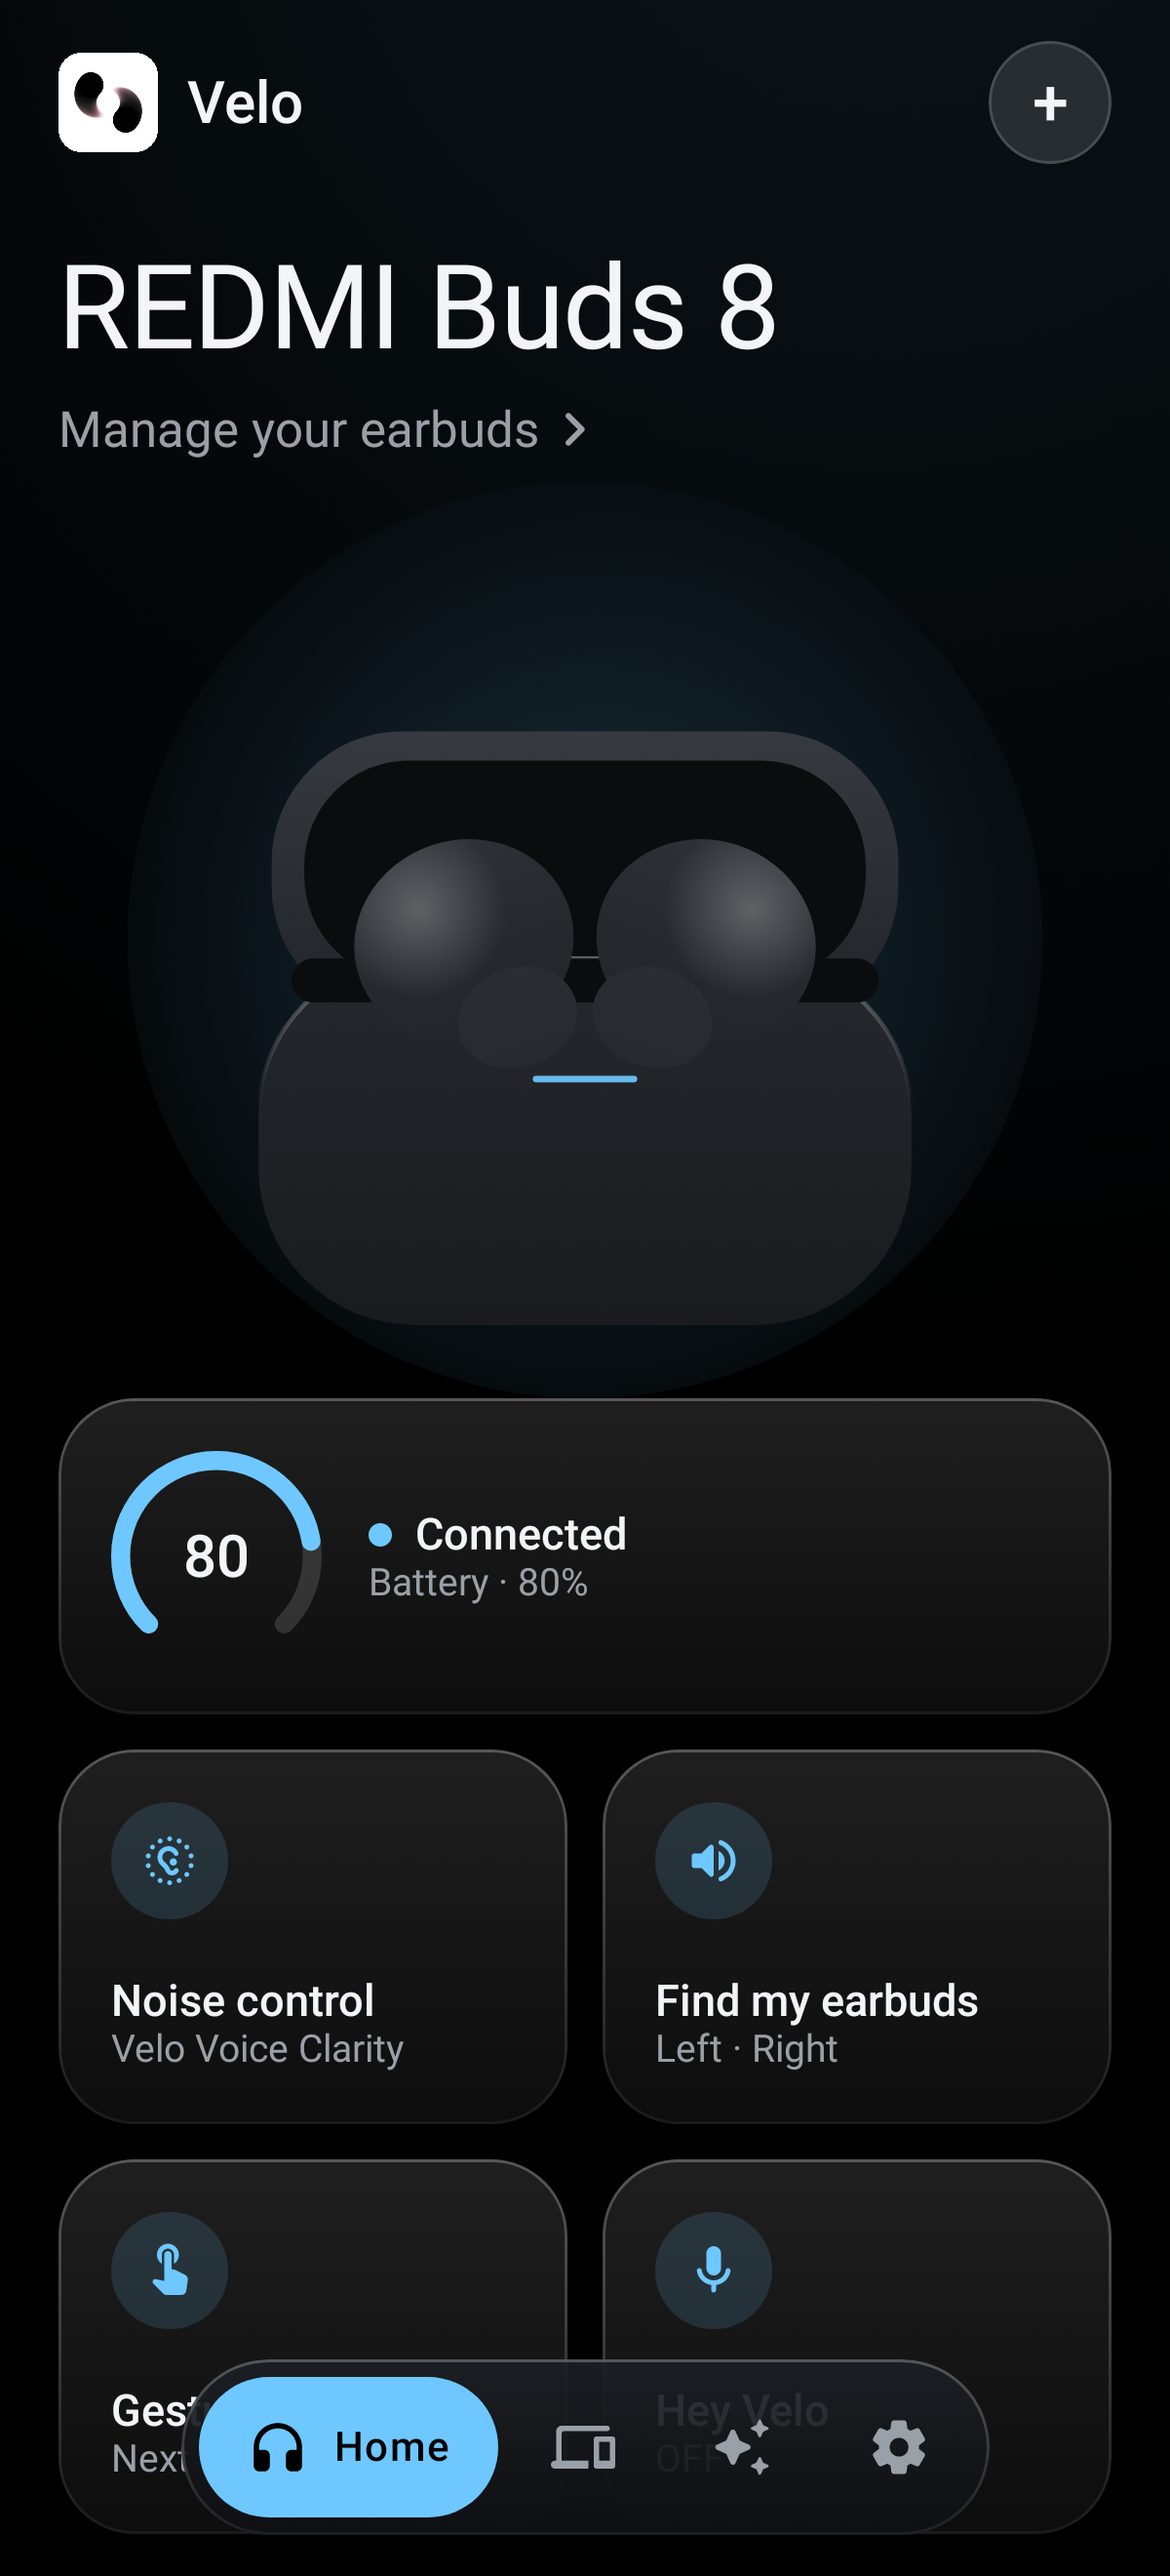
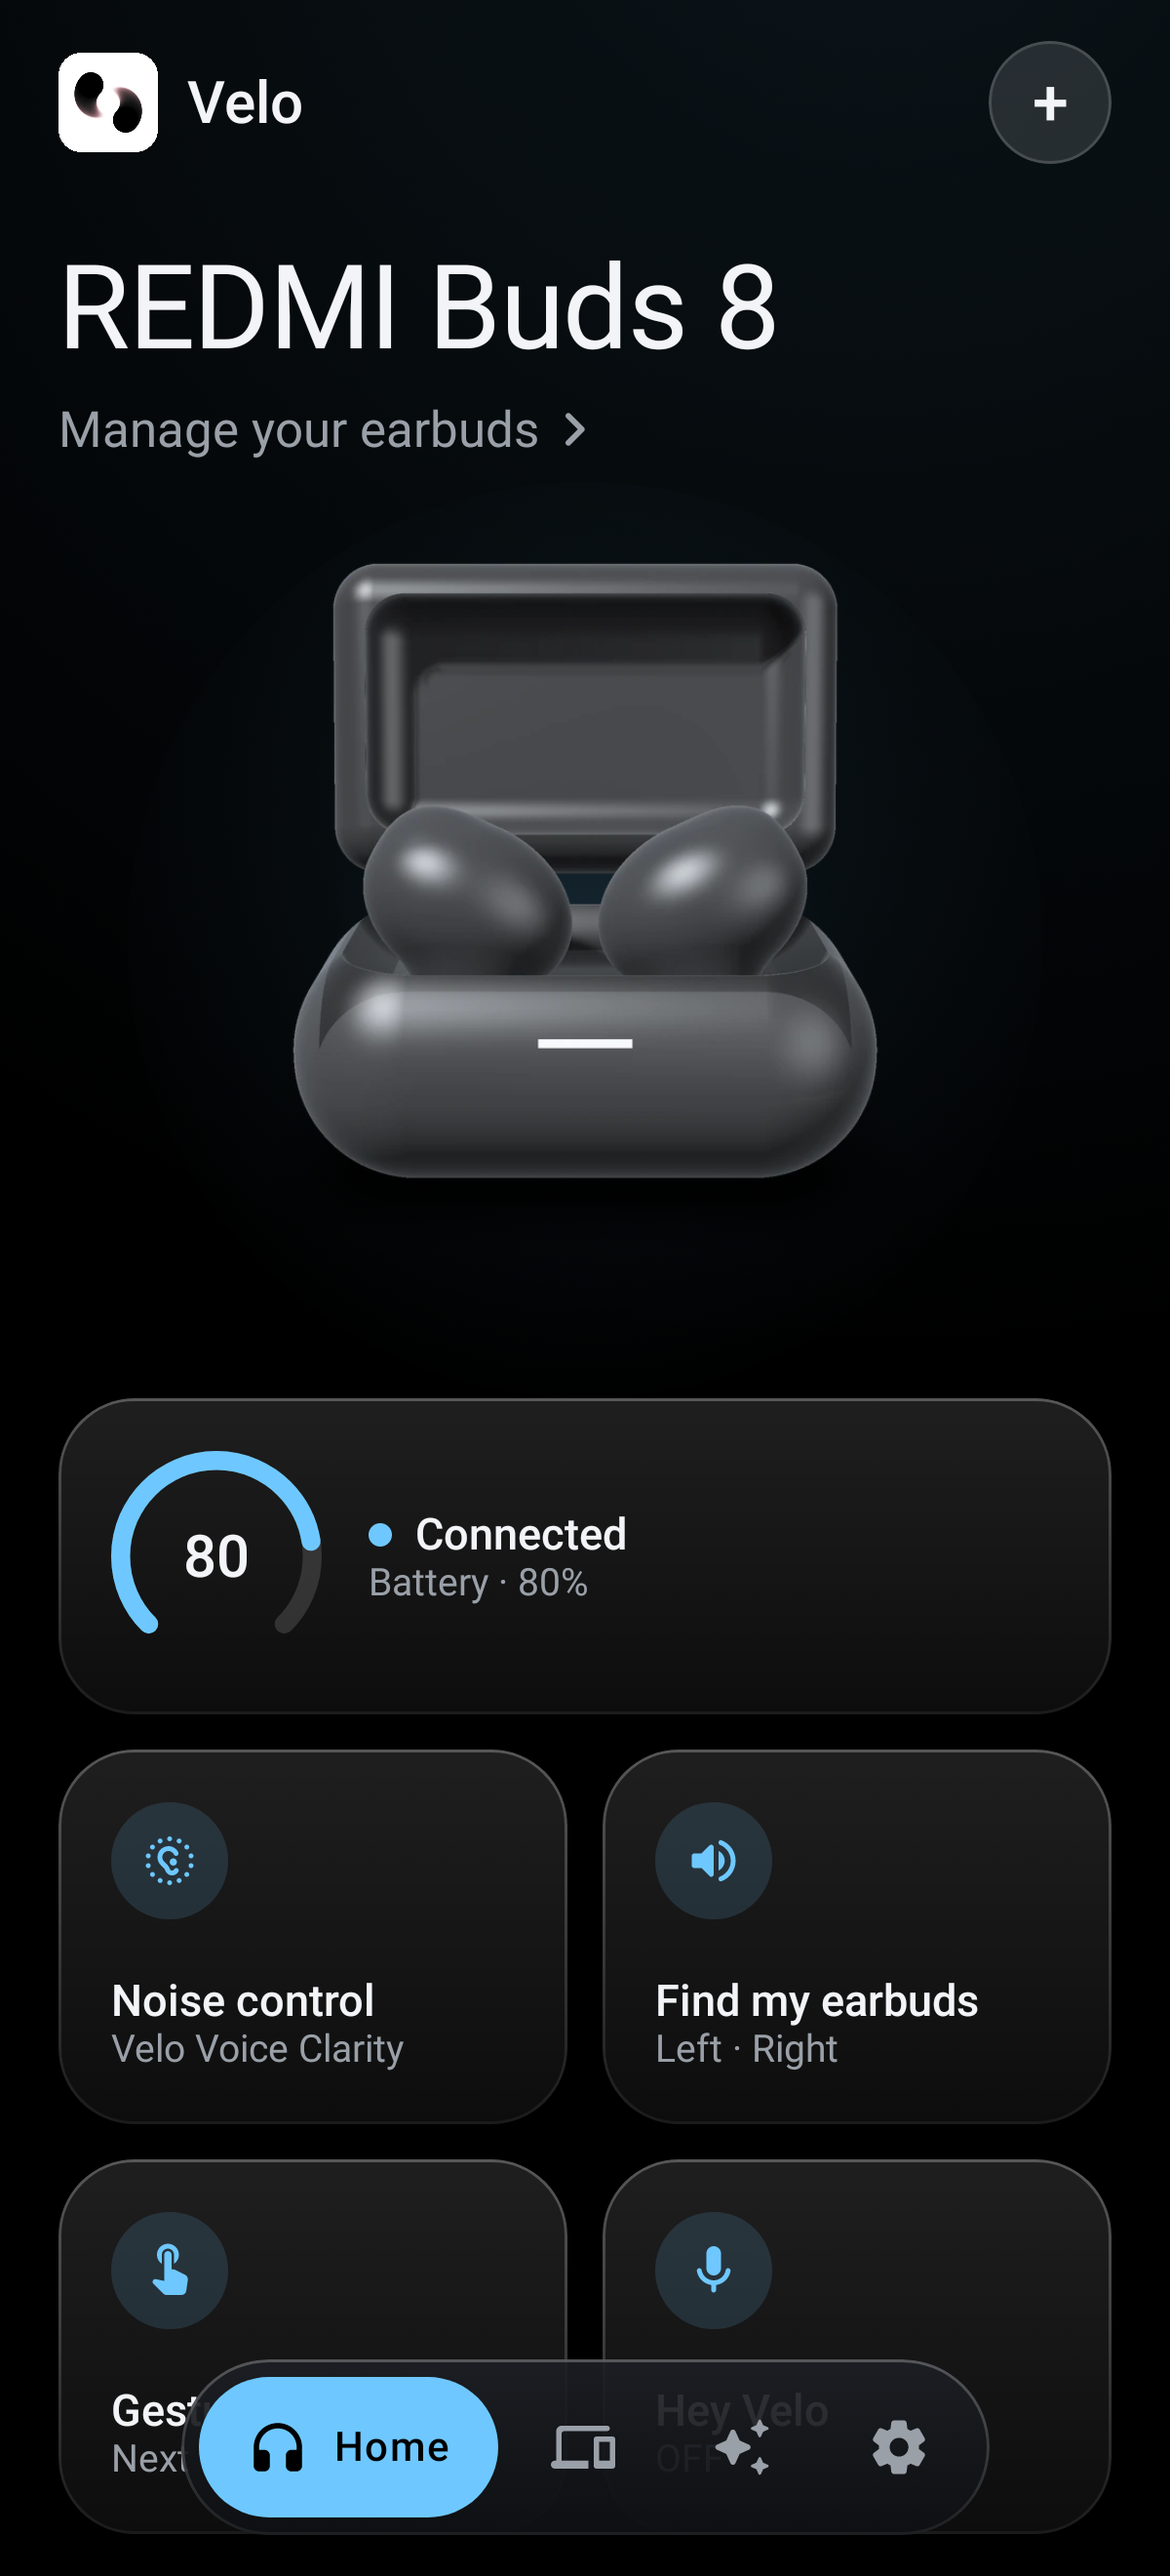
Velo: replace flat earbuds drawing with smooth 3D renders
Pre-rendered matte 3D images for bean buds, stem buds and over-ear headphones
(generated by velo/tools/render_buds.py), shown over a soft accent glow.

Claude-Session: https://claude.ai/code/session_01CEukdWCG9trqn3DkhHwM5x

Changed region(s): [[0.2158, 0.2174, 0.8017, 0.528]]

diff --git a/velo/app/src/main/java/app/velo/ui/BudsArt.kt b/velo/app/src/main/java/app/velo/ui/BudsArt.kt
@@ -1,116 +1,42 @@
 package app.velo.ui
 
 import androidx.compose.foundation.Canvas
+import androidx.compose.foundation.Image
+import androidx.compose.foundation.layout.Box
+import androidx.compose.foundation.layout.fillMaxSize
+import androidx.compose.runtime.Composable
+import androidx.compose.ui.Alignment
 import androidx.compose.ui.Modifier
-import androidx.compose.ui.geometry.CornerRadius
 import androidx.compose.ui.geometry.Offset
-import androidx.compose.ui.geometry.Size
 import androidx.compose.ui.graphics.Brush
 import androidx.compose.ui.graphics.Color
-import androidx.compose.ui.graphics.Path
-import androidx.compose.ui.graphics.drawscope.DrawScope
-import androidx.compose.ui.graphics.drawscope.Stroke
-import androidx.compose.ui.graphics.drawscope.rotate
-import androidx.compose.runtime.Composable
+import androidx.compose.ui.layout.ContentScale
+import androidx.compose.ui.res.painterResource
+import app.velo.R
 import app.velo.bt.BudsStyle
 
 /**
- * Product-style illustration of the connected model (bean buds in an open case, stem buds, or
- * over-ear headphones), drawn in vector so it's sharp on every screen and costs no image memory.
+ * 3D product render of the connected model's style (bean buds in an open case, stem buds, or
+ * over-ear headphones). The renders are pre-made images (see tools/render_buds.py), so showing
+ * them costs no 3D work on the phone.
  */
 @Composable
 fun BudsArt(style: BudsStyle, accent: Color, modifier: Modifier = Modifier, glowing: Boolean = true) {
-    Canvas(modifier) {
-        if (glowing) drawCircle(
-            Brush.radialGradient(listOf(accent.copy(alpha = 0.22f), Color.Transparent),
-                center = Offset(size.width / 2, size.height * 0.55f), radius = size.minDimension * 0.6f)
-        )
-        when (style) {
-            BudsStyle.BEANS -> beans(accent)
-            BudsStyle.STEMS -> stems(accent)
-            BudsStyle.OVER_EAR -> overEar(accent)
+    val res = when (style) {
+        BudsStyle.BEANS -> R.drawable.render_beans
+        BudsStyle.STEMS -> R.drawable.render_stems
+        BudsStyle.OVER_EAR -> R.drawable.render_over
+    }
+    Box(modifier, contentAlignment = Alignment.Center) {
+        if (glowing) Canvas(Modifier.fillMaxSize()) {
+            // soft accent light behind the product, like a studio backdrop
+            drawCircle(
+                Brush.radialGradient(
+                    listOf(accent.copy(alpha = 0.16f), accent.copy(alpha = 0.04f), Color.Transparent),
+                    center = Offset(size.width / 2, size.height * 0.48f), radius = size.minDimension * 0.55f
+                )
+            )
         }
+        Image(painterResource(res), null, Modifier.fillMaxSize(), contentScale = ContentScale.Fit)
     }
-}
-
-private val shell = Brush.verticalGradient(listOf(Color(0xFF4A4E55), Color(0xFF26292E), Color(0xFF16181B)))
-private val inner = Color(0xFF0B0C0E)
-
-private fun DrawScope.case(top: Float, accent: Color, lidOpen: Boolean = true) {
-    val w = size.width * 0.62f
-    val h = size.height * 0.40f
-    val l = (size.width - w) / 2
-    // lid (open, behind)
-    if (lidOpen) {
-        val lidTop = top - h * 0.62f
-        drawRoundRect(shell, Offset(l + w * 0.02f, lidTop), Size(w * 0.96f, h * 0.78f), CornerRadius(w * 0.2f))
-        drawRoundRect(inner, Offset(l + w * 0.07f, lidTop + h * 0.08f), Size(w * 0.86f, h * 0.6f), CornerRadius(w * 0.16f))
-    }
-    // body
-    drawRoundRect(shell, Offset(l, top), Size(w, h), CornerRadius(w * 0.24f, w * 0.24f))
-    // rim light
-    drawRoundRect(
-        Brush.verticalGradient(listOf(Color(0x55FFFFFF), Color.Transparent), startY = top, endY = top + h * 0.4f),
-        Offset(l, top), Size(w, h), CornerRadius(w * 0.24f), style = Stroke(width = size.width * 0.004f)
-    )
-    // cradle opening
-    drawRoundRect(inner, Offset(l + w * 0.05f, top), Size(w * 0.9f, h * 0.12f), CornerRadius(w * 0.05f))
-    // status LED
-    drawRoundRect(accent.copy(alpha = 0.9f), Offset(size.width / 2 - w * 0.08f, top + h * 0.32f),
-        Size(w * 0.16f, h * 0.018f), CornerRadius(4f))
-}
-
-private fun DrawScope.bean(cx: Float, cy: Float, r: Float, mirror: Boolean) {
-    val s = if (mirror) -1f else 1f
-    rotate(if (mirror) 18f else -18f, Offset(cx, cy)) {
-        drawOval(shell, Offset(cx - r, cy - r * 0.92f), Size(r * 2, r * 1.84f))
-        // ear tip
-        drawOval(Brush.verticalGradient(listOf(Color(0xFF3A3D43), Color(0xFF1D1F23))),
-            Offset(cx + s * r * 0.25f - r * 0.55f, cy + r * 0.35f), Size(r * 1.1f, r * 0.9f))
-        // highlight
-        drawOval(Brush.radialGradient(listOf(Color(0x40FFFFFF), Color.Transparent),
-            center = Offset(cx - s * r * 0.3f, cy - r * 0.4f), radius = r * 0.8f),
-            Offset(cx - r, cy - r * 0.92f), Size(r * 2, r * 1.84f))
-    }
-}
-
-private fun DrawScope.beans(accent: Color) {
-    val top = size.height * 0.52f
-    case(top, accent)
-    val r = size.width * 0.105f
-    bean(size.width * 0.385f, top - r * 0.15f, r, false)
-    bean(size.width * 0.615f, top - r * 0.15f, r, true)
-}
-
-private fun DrawScope.stems(accent: Color) {
-    val top = size.height * 0.55f
-    case(top, accent)
-    val r = size.width * 0.075f
-    for ((cx, m) in listOf(size.width * 0.42f to false, size.width * 0.58f to true)) {
-        val cy = top - r * 0.6f
-        drawOval(shell, Offset(cx - r, cy - r), Size(r * 2, r * 1.8f))
-        drawRoundRect(shell, Offset(cx - r * 0.32f + (if (m) r * 0.15f else -r * 0.15f), cy + r * 0.4f),
-            Size(r * 0.64f, r * 2.6f), CornerRadius(r * 0.32f))
-        drawOval(Brush.radialGradient(listOf(Color(0x40FFFFFF), Color.Transparent), Offset(cx, cy - r * 0.4f), r),
-            Offset(cx - r, cy - r), Size(r * 2, r * 1.8f))
-    }
-}
-
-private fun DrawScope.overEar(accent: Color) {
-    val cx = size.width / 2
-    val w = size.width * 0.56f
-    val bandTop = size.height * 0.16f
-    val band = Path().apply {
-        moveTo(cx - w / 2, size.height * 0.58f)
-        cubicTo(cx - w / 2, bandTop - size.height * 0.05f, cx + w / 2, bandTop - size.height * 0.05f, cx + w / 2, size.height * 0.58f)
-    }
-    drawPath(band, Color(0xFF2A2D32), style = Stroke(width = size.width * 0.05f))
-    drawPath(band, Color(0x33FFFFFF), style = Stroke(width = size.width * 0.006f))
-    for (x in listOf(cx - w / 2, cx + w / 2)) {
-        val cw = size.width * 0.17f
-        val ch = size.height * 0.30f
-        drawRoundRect(shell, Offset(x - cw / 2, size.height * 0.5f), Size(cw, ch), CornerRadius(cw * 0.45f))
-        drawRoundRect(Color(0xFF151619), Offset(x - cw * 0.32f, size.height * 0.53f), Size(cw * 0.64f, ch * 0.88f), CornerRadius(cw * 0.3f))
-    }
-    drawCircle(accent.copy(alpha = 0.9f), size.width * 0.008f, Offset(cx + w / 2, size.height * 0.62f))
 }

diff --git a/velo/tools/render_buds.py b/velo/tools/render_buds.py
@@ -1,0 +1,150 @@
+import numpy as np, sys
+from PIL import Image
+f32=np.float32
+def length(v): return np.sqrt((v*v).sum(-1))
+def norm(v): return v/np.maximum(length(v),1e-6)[...,None]
+def rbox(p,b,r):
+    q=np.abs(p)-np.array(b,f32)+r
+    return length(np.maximum(q,0))+np.minimum(q.max(-1),0)-r
+def ell(p,r):
+    r=np.array(r,f32); k0=length(p/r); k1=length(p/(r*r)); return k0*(k0-1)/np.maximum(k1,1e-6)
+def sph(p,r): return length(p)-r
+def smin(a,b,k):
+    h=np.clip(0.5+0.5*(b-a)/k,0,1); return b*(1-h)+a*h-k*h*(1-h)
+def rotx(p,a):
+    c,s=np.cos(a),np.sin(a); x,y,z=p[...,0],p[...,1],p[...,2]
+    return np.stack([x,c*y-s*z,s*y+c*z],-1)
+def roty(p,a):
+    c,s=np.cos(a),np.sin(a); x,y,z=p[...,0],p[...,1],p[...,2]
+    return np.stack([c*x+s*z,y,-s*x+c*z],-1)
+def rotz(p,a):
+    c,s=np.cos(a),np.sin(a); x,y,z=p[...,0],p[...,1],p[...,2]
+    return np.stack([c*x-s*y,s*x+c*y,z],-1)
+def sub(p,o): return p-np.array(o,f32)
+
+def case(p):
+    body=rbox(sub(p,(0,-0.32,0)),(1.08,0.47,0.66),0.46)
+    cav=rbox(sub(p,(0,0.30,0.0)),(0.92,0.42,0.50),0.32)
+    body=np.maximum(body,-cav)
+    # lid hinged at back-top, opened ~105deg
+    q=sub(p,(0,0.15,-0.66)); q=rotx(q,np.radians(104)); q=q-np.array((0,0.13,0.66),f32)
+    lid=rbox(q,(1.08,0.20,0.66),0.20)
+    lidcav=rbox(q-np.array((0,-0.16,0),f32),(0.92,0.18,0.50),0.17)
+    lid=np.maximum(lid,-lidcav)
+    return body,lid
+
+def bean(p,side):
+    q=sub(p,(side*0.43,0.22,0.12)); q=rotz(q,side*np.radians(-28)); q=rotx(q,np.radians(-18))
+    b=ell(q,(0.40,0.31,0.30))
+    tip=ell(q-np.array((side*-0.14,-0.20,0.16),f32),(0.19,0.17,0.17))
+    nub=ell(q-np.array((side*0.20,0.10,-0.10),f32),(0.16,0.13,0.14))
+    return smin(smin(b,tip,0.12),nub,0.10)
+
+def stem(p,side):
+    q=sub(p,(side*0.40,0.28,0.18)); q=rotz(q,side*np.radians(-12))
+    head=ell(q,(0.27,0.24,0.25))
+    s=q-np.array((side*0.04,-0.36,0.0),f32)
+    s2=s.copy(); s2[...,1]=s[...,1]-np.clip(s[...,1],-0.32,0.32)
+    st=length(s2)-0.085
+    tip=ell(q-np.array((side*-0.17,-0.02,0.12),f32),(0.12,0.10,0.10))
+    return smin(smin(head,st,0.10),tip,0.06)
+
+def headphones(p):
+    # headband: torus segment in xy plane
+    p=roty(p,np.radians(-32))
+    q=sub(p,(0,0.05,0))
+    R=1.05; r=0.13
+    xy=np.sqrt(q[...,0]**2+q[...,1]**2)
+    band=np.sqrt((xy-R)**2+q[...,2]**2)-r
+    band=np.where(q[...,1]>-0.25,band,10)
+    cups=10
+    for sd in (-1,1):
+        c=sub(p,(sd*1.0,-0.62,0)); c=rotz(c,sd*np.radians(8))
+        cup=rbox(c,(0.15,0.50,0.40),0.15)
+        cup=smin(cup,ell(c-np.array((-sd*0.12,0,0),f32),(0.16,0.50,0.40)),0.06)
+        cups=np.minimum(cups,cup)
+        yoke=rbox(sub(p,(sd*1.06,-0.22,0)),(0.05,0.18,0.06),0.04)
+        cups=np.minimum(cups,yoke)
+    return band,cups
+
+def scene(p,kind):
+    if kind=="over":
+        a,b=headphones(p); d=np.minimum(a,b); m=np.where(a<b,1,0)
+        return d,m
+    body,lid=case(p)
+    if kind=="beans": l,r=bean(p,1),bean(p,-1)
+    else: l,r=stem(p,1),stem(p,-1)
+    buds=np.minimum(l,r)
+    d=np.minimum(np.minimum(body,lid),buds)
+    m=np.where(buds<=d+1e-6,1,np.where(lid<=d+1e-6,2,0))
+    return d,m
+
+def render(kind,W,H,out):
+    ss=2; w,h=W*ss,H*ss
+    if kind=="over": cam=np.array((0,0.5,5.6),f32); tgt=np.array((0,-0.25,0),f32); fov=0.42
+    else: cam=np.array((0,1.55,5.0),f32); tgt=np.array((0,0.05,0),f32); fov=0.33
+    fw=norm(tgt-cam); rt=norm(np.cross(fw,np.array((0,1,0),f32))); up=np.cross(rt,fw)
+    ys,xs=np.mgrid[0:h,0:w].astype(f32)
+    u=(xs-w/2)/h*2*fov; v=-(ys-h/2)/h*2*fov
+    rd=norm(fw+u[...,None]*rt+v[...,None]*up).reshape(-1,3)
+    ro=np.broadcast_to(cam,rd.shape)
+    n=rd.shape[0]; t=np.zeros(n,f32); hit=np.zeros(n,bool); act=np.ones(n,bool)
+    for i in range(140):
+        idx=np.nonzero(act)[0]
+        if idx.size==0: break
+        p=ro[idx]+rd[idx]*t[idx,None]
+        d,_=scene(p,kind)
+        t[idx]+=d*0.9
+        h_=d<0.0008; far=t[idx]>12
+        hit[idx[h_]]=True; act[idx[h_|far]]=False
+    col=np.zeros((n,3),f32); alpha=np.zeros(n,f32)
+    idx=np.nonzero(hit)[0]
+    p=ro[idx]+rd[idx]*t[idx,None]
+    e=0.0015
+    def D(q): return scene(q,kind)[0]
+    nrm=norm(np.stack([D(p+np.array((e,0,0),f32))-D(p-np.array((e,0,0),f32)),
+                       D(p+np.array((0,e,0),f32))-D(p-np.array((0,e,0),f32)),
+                       D(p+np.array((0,0,e),f32))-D(p-np.array((0,0,e),f32))],-1))
+    _,mat=scene(p,kind)
+    # AO
+    ao=np.ones(len(idx),f32)
+    for k in range(1,6):
+        hh=0.04*k; ao-= (hh-D(p+nrm*hh))*(0.9/k)
+    ao=np.clip(ao,0.15,1)
+    # soft shadow toward key light
+    L=norm(np.array((-0.55,1.0,0.55),f32))
+    sh=np.ones(len(idx),f32); tt=np.full(len(idx),0.02,f32)
+    for k in range(48):
+        dd=D(p+nrm*0.004+L*tt[:,None]); sh=np.minimum(sh,10*dd/tt); tt+=np.clip(dd,0.01,0.2)
+    sh=np.clip(sh,0,1); sh=sh*sh*(3-2*sh)
+    V=-rd[idx]
+    base=np.array([(0.034,0.036,0.040),(0.030,0.032,0.036),(0.026,0.027,0.030)],f32)[mat]
+    inside=(mat!=1)&(np.abs(p[:,0])<0.93)&(np.abs(p[:,2])<0.52)&(p[:,1]>-0.45)&(p[:,1]<0.2)&(nrm[:,1]<0.9)
+    base=np.where(inside[:,None],base*0.35,base)
+    # darker interior of cavities (surfaces facing up-inside get occluded by AO already)
+    diff=np.clip((nrm*L).sum(-1),0,1)*sh
+    fill=np.clip((nrm*norm(np.array((0.8,0.3,0.6),f32))).sum(-1),0,1)*0.35
+    sky=(0.5+0.5*nrm[:,1])*0.25
+    Hh=norm(L+V); spec=np.clip((nrm*Hh).sum(-1),0,1)**48*sh*0.55
+    Hf=norm(norm(np.array((0.8,0.3,0.6),f32))+V); spec+=np.clip((nrm*Hf).sum(-1),0,1)**30*0.12
+    fres=(1-np.clip((nrm*V).sum(-1),0,1))**4
+    rim=fres*0.35*(0.4+0.6*np.clip(nrm[:,1]*0.5+0.5,0,1))
+    c=base*(diff[:,None]*2.6+fill[:,None]+sky[:,None])*ao[:,None]+spec[:,None]*np.array((0.9,0.95,1),f32)+rim[:,None]*np.array((0.55,0.62,0.7),f32)*ao[:,None]
+    if kind!="over":
+        led=(mat==0)&(np.abs(p[:,0])<0.16)&(np.abs(p[:,1]+0.13)<0.014)&(nrm[:,2]>0.6)
+        c=np.where(led[:,None],np.array((0.92,0.95,1.0),f32),c)
+    col[idx]=c; alpha[idx]=1
+    # contact shadow on invisible floor
+    floor_y=-0.80 if kind!="over" else -1.06
+    miss=np.nonzero(~hit & (rd[:,1]<0))[0]
+    tf=(floor_y-ro[miss,1])/rd[miss,1]
+    fp=ro[miss]+rd[miss]*tf[:,None]
+    occ=np.zeros(len(miss),f32)
+    for k in range(1,7):
+        hh=0.06*k; occ+=np.clip((hh-D(fp+np.array((0,hh,0),f32)))/hh,0,1)*(1.0/k)
+    a=np.clip(occ*0.45,0,0.85)
+    alpha[miss]=a; col[miss]=0
+    img=np.concatenate([np.clip(col,0,1)**(1/2.2),alpha[:,None]],-1).reshape(h,w,4)
+    im=Image.fromarray((img*255).astype(np.uint8),"RGBA").resize((W,H),Image.LANCZOS)
+    im.save(out)
+kind=sys.argv[1]; render(kind,int(sys.argv[2]),int(sys.argv[3]),sys.argv[4])
